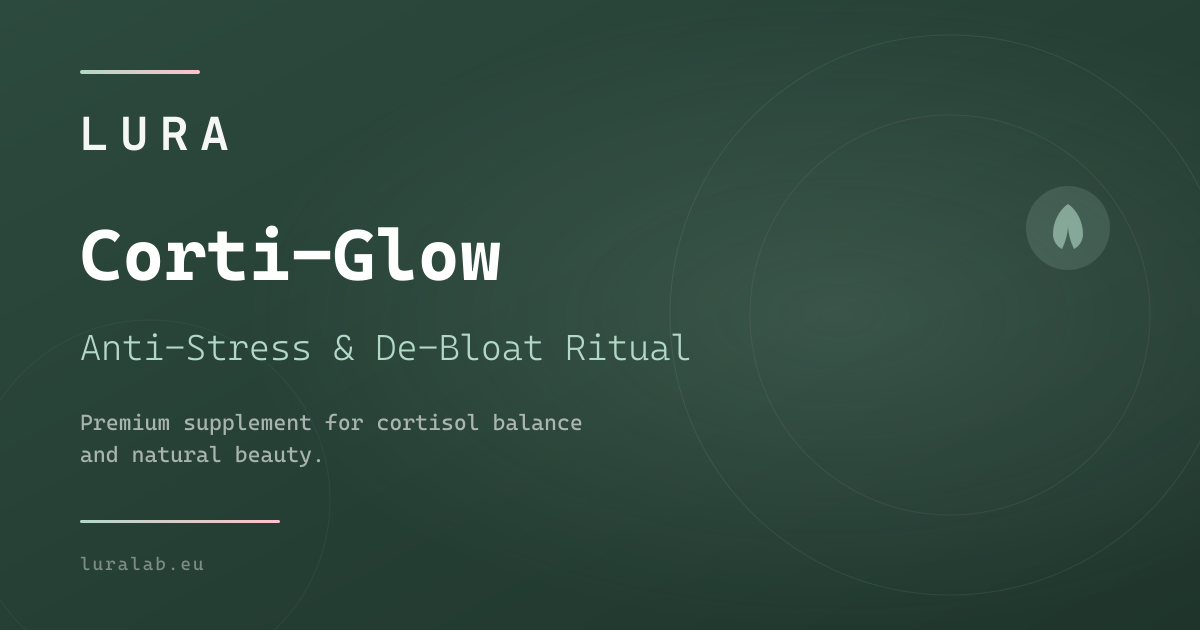
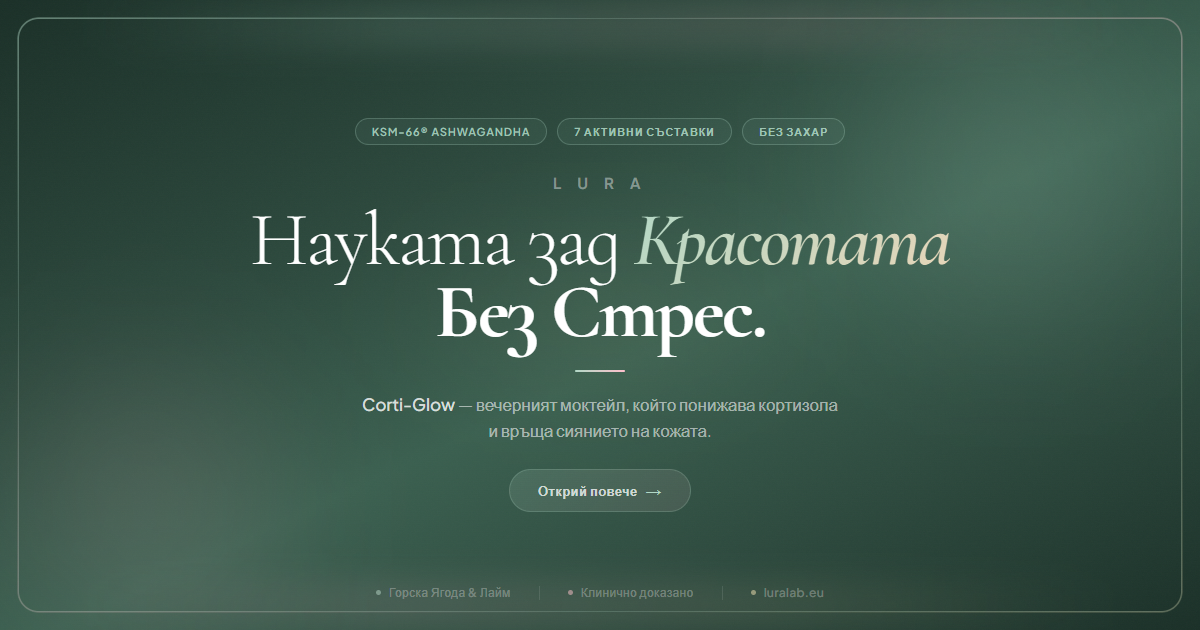
feat: add waitlist welcome email, redesign OG image & update metadata
- Add waitlist welcome email template with PDF link, 20% VIP discount,
  and PWA link (fire-and-forget on new PWA subscriber signup)
- Redesign OG image: modern centered layout with glowing frame,
  gradient headline, CTA button, Bulgarian text
- Update all metadata (title, description, OG, Twitter) to match
  current branding: "Науката зад Красотата Без Стрес"
- Fix ingredient count: 6 → 7 активни съставки (added Vitamin B6 P5P)
- Fix OG image format inconsistency (.jpg → .png everywhere)

diff --git a/src/lib/email/templates.ts b/src/lib/email/templates.ts
@@ -187,6 +187,123 @@ export const emailTemplates = {
     `,
   },
 
+  // Waitlist welcome email (sent when someone signs up from PWA)
+  waitlistWelcome: {
+    subject: "✨ Добре дошла в LURA! Твоят PDF гайд е тук",
+    previewText: "3 сутрешни навика, които свалят кортизола — безплатен PDF вътре",
+    html: `
+<!DOCTYPE html>
+<html>
+<head>
+  <meta charset="UTF-8">
+  <meta name="viewport" content="width=device-width, initial-scale=1.0">
+</head>
+<body style="margin: 0; padding: 0; font-family: -apple-system, BlinkMacSystemFont, 'Segoe UI', Roboto, sans-serif; line-height: 1.6; color: #333; background-color: #F5F2EF;">
+  <table width="100%" cellpadding="0" cellspacing="0" style="background-color: #F5F2EF; padding: 40px 20px;">
+    <tr>
+      <td align="center">
+        <table width="600" cellpadding="0" cellspacing="0" style="background-color: #ffffff; border-radius: 16px; overflow: hidden; box-shadow: 0 4px 20px rgba(0,0,0,0.1);">
+
+          <!-- Header -->
+          <tr>
+            <td style="background: linear-gradient(135deg, #2D4A3E 0%, #1a2d25 100%); padding: 40px; text-align: center;">
+              <h1 style="color: #ffffff; font-size: 28px; margin: 0; letter-spacing: 4px;">LURA</h1>
+              <p style="color: #B2D8C6; margin: 10px 0 0; font-size: 14px;">Wellness за модерната жена</p>
+            </td>
+          </tr>
+
+          <!-- Welcome -->
+          <tr>
+            <td style="padding: 40px 40px 0;">
+              <h2 style="color: #2D4A3E; font-size: 24px; margin: 0 0 16px;">Ти си в списъка! 🌿</h2>
+              <p style="color: #666; margin: 0 0 24px;">
+                Радваме се, че си една от първите, които ще опитат Corty GLOW.
+                Докато подготвяме първата партида, имаме нещо специално за теб:
+              </p>
+            </td>
+          </tr>
+
+          <!-- PDF Download CTA -->
+          <tr>
+            <td style="padding: 0 40px 30px;">
+              <table width="100%" cellpadding="0" cellspacing="0" style="background: linear-gradient(135deg, #B2D8C6 0%, #d4e8dc 100%); border-radius: 12px;">
+                <tr>
+                  <td style="padding: 24px; text-align: center;">
+                    <p style="color: #2D4A3E; margin: 0 0 8px; font-size: 13px; text-transform: uppercase; letter-spacing: 2px;">Безплатен PDF гайд</p>
+                    <p style="color: #2D4A3E; margin: 0 0 16px; font-size: 18px; font-weight: 600;">3 сутрешни навика, които свалят кортизола</p>
+                    <a href="{{PDF_URL}}" style="display: inline-block; background-color: #2D4A3E; color: #ffffff; padding: 14px 32px; border-radius: 50px; text-decoration: none; font-weight: 600; font-size: 15px;">
+                      Изтегли PDF →
+                    </a>
+                  </td>
+                </tr>
+              </table>
+            </td>
+          </tr>
+
+          <!-- Cortisol explanation -->
+          <tr>
+            <td style="padding: 0 40px 30px;">
+              <table width="100%" cellpadding="0" cellspacing="0" style="border-left: 3px solid #B2D8C6;">
+                <tr>
+                  <td style="padding: 0 0 0 20px;">
+                    <p style="color: #2D4A3E; font-weight: 600; margin: 0 0 8px; font-size: 16px;">Защо кортизолът те &ldquo;подува&rdquo;?</p>
+                    <p style="color: #666; margin: 0; font-size: 14px;">
+                      Когато стресът е постоянен, кортизолът казва на тялото ти да трупа мазнини в корема и да задържа вода. Corty GLOW е създаден точно за това &mdash; с Ashwagandha, Myo-Inositol и Магнезий, които връщат баланса.
+                    </p>
+                  </td>
+                </tr>
+              </table>
+            </td>
+          </tr>
+
+          <!-- VIP Discount -->
+          <tr>
+            <td style="padding: 0 40px 30px;">
+              <table width="100%" cellpadding="0" cellspacing="0" style="background: linear-gradient(135deg, #FFC1CC 0%, #ffd6dc 100%); border-radius: 12px;">
+                <tr>
+                  <td style="padding: 24px; text-align: center;">
+                    <p style="color: #2D4A3E; margin: 0 0 4px; font-size: 13px; text-transform: uppercase; letter-spacing: 2px;">VIP отстъпка</p>
+                    <p style="color: #2D4A3E; margin: 0 0 8px; font-size: 28px; font-weight: bold;">20% OFF</p>
+                    <p style="color: #2D4A3E; margin: 0; font-size: 14px;">при старта на продукта &mdash; само за теб</p>
+                  </td>
+                </tr>
+              </table>
+            </td>
+          </tr>
+
+          <!-- PWA CTA -->
+          <tr>
+            <td style="padding: 0 40px 40px; text-align: center;">
+              <p style="color: #666; margin: 0 0 16px; font-size: 14px;">
+                Докато чакаш, опитай нашето приложение &mdash; дневен чек-ин за стрес и сън, дихателно упражнение и персонализирани препоръки.
+              </p>
+              <a href="{{PWA_URL}}" style="display: inline-block; background-color: #ffffff; color: #2D4A3E; padding: 12px 28px; border-radius: 50px; text-decoration: none; font-weight: 600; font-size: 14px; border: 2px solid #2D4A3E;">
+                Опитай LURA App →
+              </a>
+            </td>
+          </tr>
+
+          <!-- Footer -->
+          <tr>
+            <td style="background-color: #2D4A3E; padding: 30px; text-align: center;">
+              <p style="color: #B2D8C6; margin: 0 0 10px; font-size: 14px;">
+                С грижа,<br>Екипът на LURA
+              </p>
+              <p style="color: #ffffff40; margin: 0; font-size: 12px;">
+                &copy; 2026 LURA Wellness. Всички права запазени.
+              </p>
+            </td>
+          </tr>
+
+        </table>
+      </td>
+    </tr>
+  </table>
+</body>
+</html>
+    `,
+  },
+
   // Review request
   reviewRequest: {
     subject: "Как ти се струва Corti-Glow? ⭐",

diff --git a/src/app/layout.tsx b/src/app/layout.tsx
@@ -32,44 +32,47 @@ const cormorant = Cormorant_Garamond({
 export const metadata: Metadata = {
   metadataBase: new URL("https://luralab.eu"),
   title: {
-    default: "LURA | Corti-Glow Ритуал - Анти-Стрес & Де-Блоут",
+    default: "LURA | Науката зад Красотата Без Стрес",
     template: "%s | LURA",
   },
   description:
-    "Открий Corti-Glow – вкусният моктейл с Горска Ягода и Лайм, който понижава кортизола, премахва подуването и подобрява съня. Без захар. Натурални съставки.",
+    "Corti-Glow е вечерният моктейл с KSM-66® Ashwagandha, магнезий и инозитол, който понижава кортизола и връща сиянието на кожата. 7 активни съставки, без захар.",
   keywords: [
     "кортизол",
     "стрес",
-    "подуване",
+    "кожа",
+    "сияние",
     "хормонален баланс",
     "ашваганда",
     "магнезий",
+    "инозитол",
     "добавки",
     "corti-glow",
+    "моктейл",
   ],
   authors: [{ name: "LURA" }],
   openGraph: {
     type: "website",
     locale: "bg_BG",
     url: "https://luralab.eu",
-    siteName: "LuraLab",
-    title: "LURA | Corti-Glow Ритуал",
+    siteName: "LURA",
+    title: "LURA | Науката зад Красотата Без Стрес",
     description:
-      "Изпий стреса. Прибери коремчето. 14-дневен ритуал за хормонален баланс.",
+      "Corti-Glow — вечерният моктейл, който понижава кортизола и връща сиянието на кожата. 7 активни съставки, без захар.",
     images: [
       {
-        url: "/images/og-image.jpg",
+        url: "/images/og-image.png",
         width: 1200,
         height: 630,
-        alt: "LURA Corti-Glow",
+        alt: "LURA Corti-Glow — Науката зад Красотата Без Стрес",
       },
     ],
   },
   twitter: {
     card: "summary_large_image",
-    title: "LURA | Corti-Glow Ритуал",
+    title: "LURA | Науката зад Красотата Без Стрес",
     description:
-      "Изпий стреса. Прибери коремчето. 14-дневен ритуал за хормонален баланс.",
+      "Corti-Glow — вечерният моктейл, който понижава кортизола и връща сиянието на кожата. 7 активни съставки, без захар.",
     images: ["/images/og-image.png"],
   },
   robots: {
@@ -94,7 +97,7 @@ const organizationJsonLd = {
   name: "LURA",
   legalName: '"Лура Лаб" ЕООД',
   url: "https://luralab.eu",
-  logo: "https://luralab.eu/images/og-image.png",
+  logo: "https://luralab.eu/icon-512.png",
   email: "contact@luralab.eu",
   contactPoint: {
     "@type": "ContactPoint",

diff --git a/src/app/api/newsletter/subscribe/route.ts b/src/app/api/newsletter/subscribe/route.ts
@@ -2,6 +2,7 @@ import { NextRequest, NextResponse } from "next/server";
 import { createServerClient } from "@/lib/supabase/server";
 import { z } from "zod";
 import { createRateLimiter, getClientIp } from "@/lib/rate-limit";
+import { sendWaitlistWelcomeEmail } from "@/lib/email";
 
 // 5 attempts per 5 minutes
 const limiter = createRateLimiter(5, 5 * 60 * 1000);
@@ -34,14 +35,24 @@ export async function POST(request: NextRequest) {
     }
 
     const { email, source } = validated.data;
+    const normalizedEmail = email.toLowerCase();
     const supabase = createServerClient();
+
+    // Check if subscriber already exists (to detect new vs re-subscription)
+    const { data: existing } = await (supabase as any)
+      .from("newsletter_subscribers")
+      .select("id")
+      .eq("email", normalizedEmail)
+      .single();
+
+    const isNewSubscriber = !existing;
 
     // Upsert — re-subscribe if previously unsubscribed
     const { error } = await (supabase as any)
       .from("newsletter_subscribers")
       .upsert(
         {
-          email: email.toLowerCase(),
+          email: normalizedEmail,
           active: true,
           subscribed_at: new Date().toISOString(),
           unsubscribed_at: null,
@@ -55,6 +66,13 @@ export async function POST(request: NextRequest) {
       return NextResponse.json(
         { error: "Грешка при записване. Опитайте отново." },
         { status: 500 }
+      );
+    }
+
+    // Send welcome email for new PWA subscribers (fire-and-forget)
+    if (isNewSubscriber && source?.includes("pwa")) {
+      sendWaitlistWelcomeEmail(normalizedEmail).catch((err) =>
+        console.error("Welcome email error:", err)
       );
     }
 

diff --git a/src/app/(marketing)/page.tsx b/src/app/(marketing)/page.tsx
@@ -22,12 +22,13 @@ import { IS_PRELAUNCH } from "@/lib/constants";
 export const revalidate = 3600;
 
 export const metadata: Metadata = {
-  title: "Corti-Glow Ритуал — Анти-Стрес & Де-Блоут",
+  title: "Corti-Glow — Науката зад Красотата Без Стрес",
   description:
-    "Открий Corti-Glow – вкусният моктейл с горска ягода, който намалява кортизола с до 27%. 500+ доволни клиентки.",
+    "Corti-Glow е вечерният моктейл с KSM-66® Ashwagandha, магнезий и инозитол, който понижава кортизола и връща сиянието на кожата. Без захар. Горска ягода & лайм.",
   openGraph: {
-    title: "LURA | Corti-Glow Ритуал",
-    description: "Изпий стреса. Сияй отвътре.",
+    title: "LURA | Науката зад Красотата Без Стрес",
+    description:
+      "Corti-Glow — вечерният моктейл, който понижава кортизола и връща сиянието на кожата. 7 активни съставки, без захар.",
     images: [{ url: "/images/og-image.png", width: 1200, height: 630 }],
   },
   alternates: {

diff --git a/src/lib/email/index.ts b/src/lib/email/index.ts
@@ -1,4 +1,5 @@
 import type { Order } from "@/lib/supabase/types";
+import { getEmailTemplate } from "./templates";
 
 // Email configuration
 const RESEND_API_KEY = process.env.RESEND_API_KEY;
@@ -61,6 +62,24 @@ async function sendEmail({
       error: error instanceof Error ? error.message : "Unknown error",
     };
   }
+}
+
+// Waitlist welcome email (auto-sent on PWA signup)
+export async function sendWaitlistWelcomeEmail(
+  email: string
+): Promise<{ success: boolean; error?: string }> {
+  const appUrl = process.env.NEXT_PUBLIC_APP_URL || "https://luralab.eu";
+  const template = getEmailTemplate("waitlistWelcome", {
+    PDF_URL: `${appUrl}/pdf/3-sutreshni-navika.pdf`,
+    PWA_URL: `${appUrl}/app`,
+  });
+
+  return sendEmail({
+    to: email,
+    subject: template.subject,
+    html: template.html,
+    text: `Ти си в списъка! Радваме се, че си една от първите, които ще опитат Corty GLOW.\n\nИзтегли PDF гайда: ${appUrl}/pdf/3-sutreshni-navika.pdf\n\nКато VIP ще получиш 20% отстъпка при старта.\n\nОпитай LURA App: ${appUrl}/app\n\nС грижа, Екипът на LURA`,
+  });
 }
 
 // Contact form email
